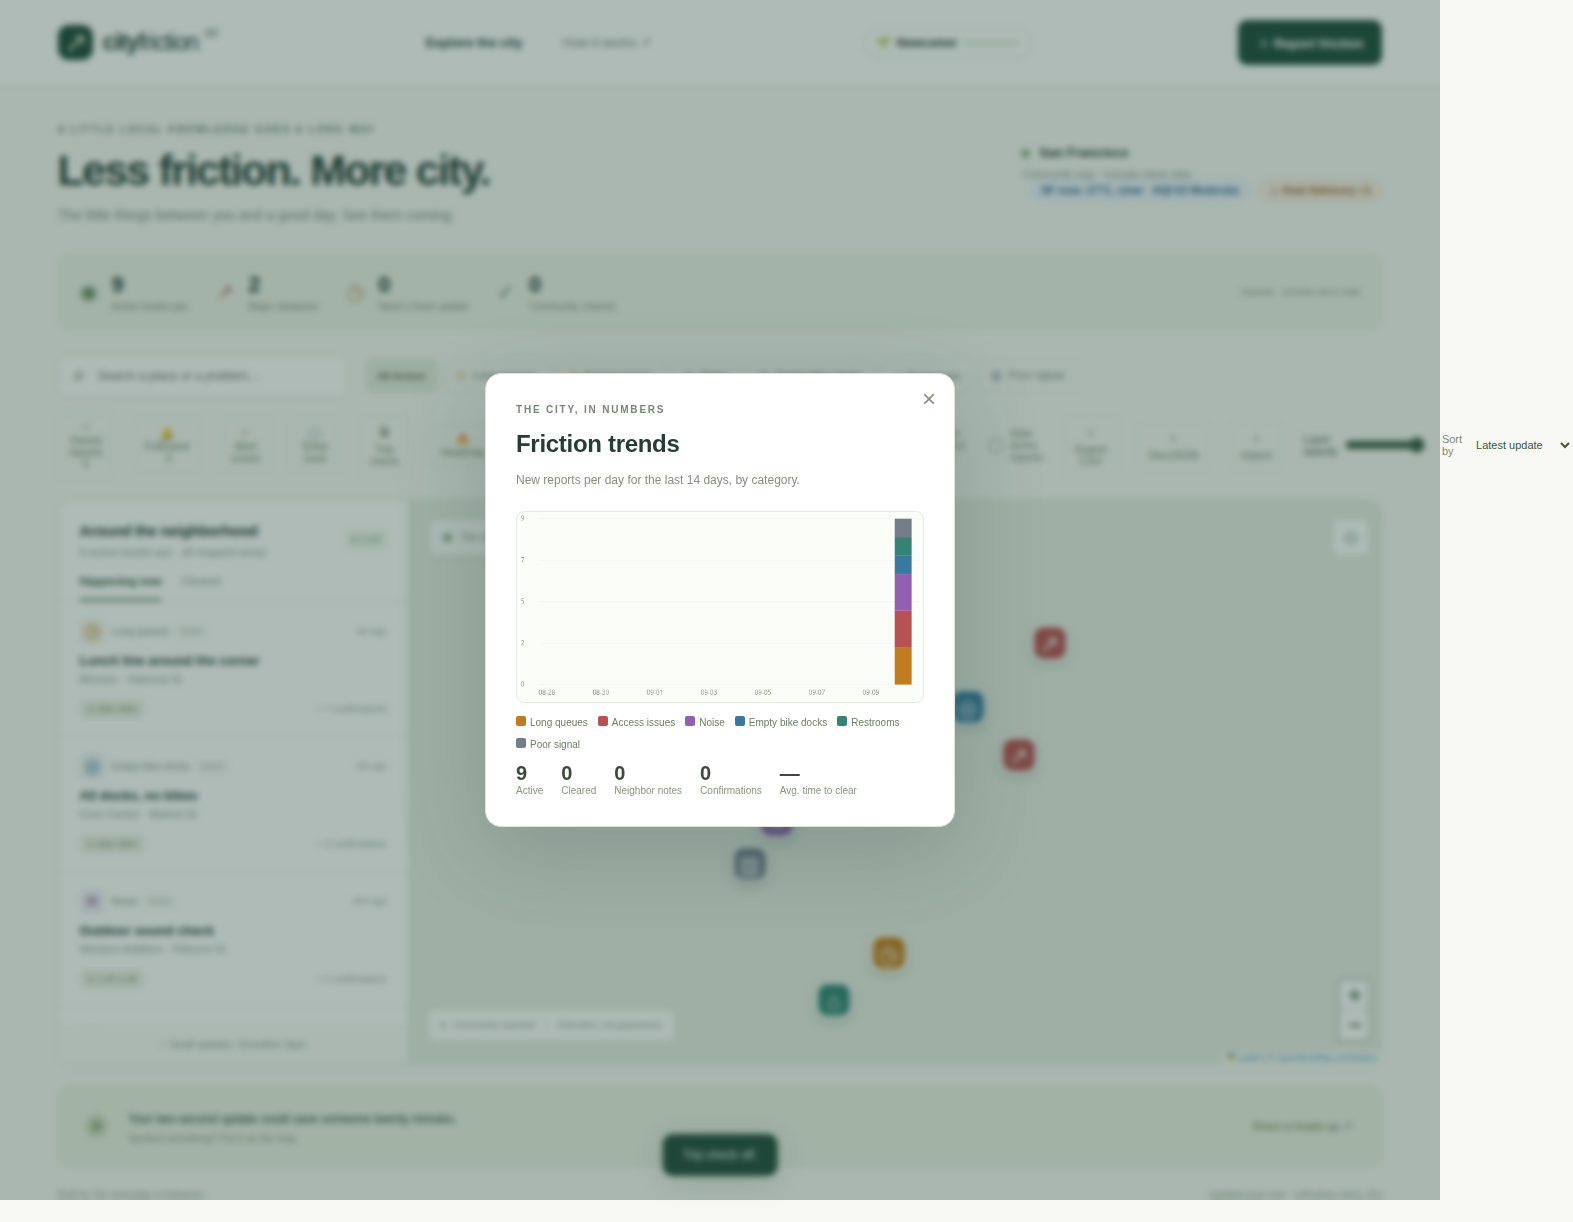
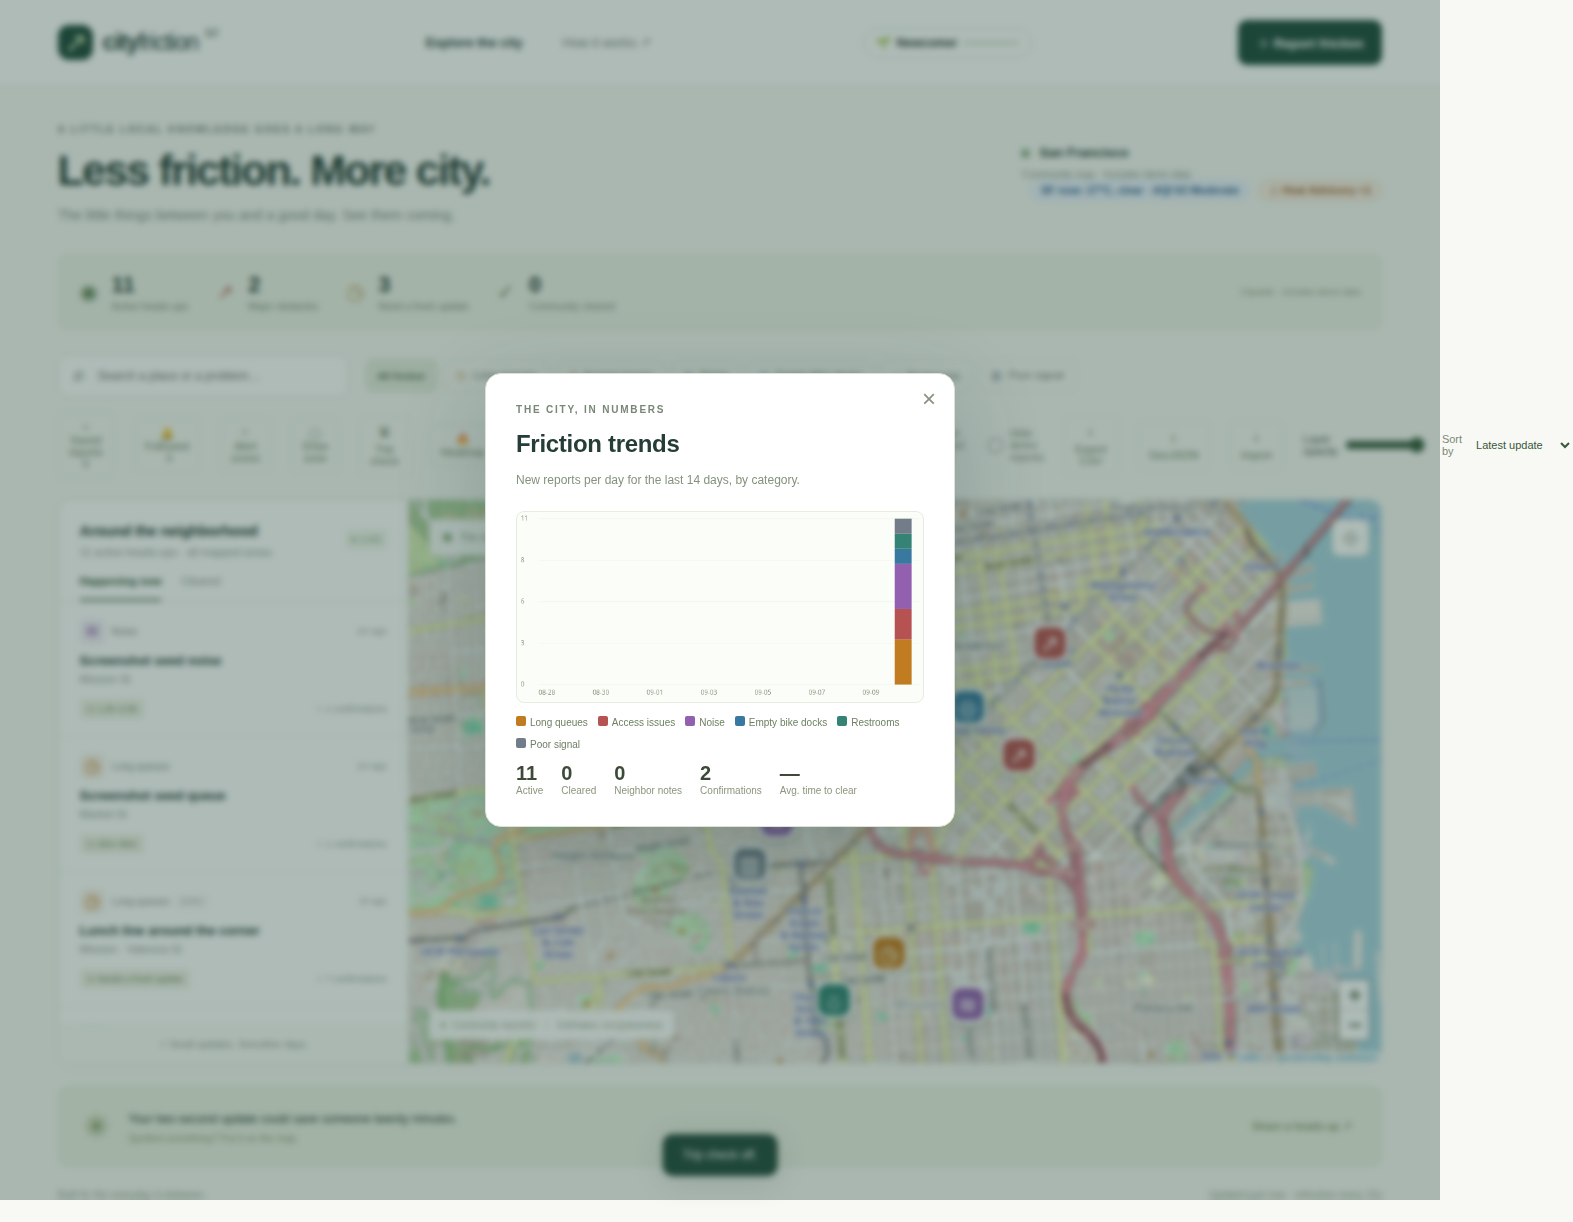
Regenerate README screenshots with rendered map tiles (v1.4.2)
- The previous eight screenshots showed an empty basemap: the capture
  sandbox's browser has no public-internet egress, so OSM tiles failed
  with ERR_EMPTY_RESPONSE (the tile API itself was healthy — verified
  with direct HTTP 200 fetches)
- Regenerated all eight shots against a production build pointed at a
  local tile cache (dist/ is gitignored; the shipped app always uses
  tile.openstreetmap.org directly) — desktop, live layers, trip check,
  gamification, trends, report detail, report form, mobile
- scripts/screenshots.js: dropped the flaky request-interception proxy
  approach; added a note documenting the local-tile-cache procedure
  for sandboxed capture environments
- 80/80 tests pass, production build clean

diff --git a/scripts/screenshots.js b/scripts/screenshots.js
@@ -5,9 +5,15 @@ const base = process.argv[2] || "http://127.0.0.1:3000";
 await mkdir("docs/screenshots", { recursive: true });
 // CI installs the Playwright browser bundle; local runs can point at a
 // system Chromium with SCREENSHOT_CHROME=/path/to/chrome.
-const launchOptions = process.env.SCREENSHOT_CHROME
-  ? { executablePath: process.env.SCREENSHOT_CHROME }
-  : {};
+// NOTE: if the capture browser has no public-internet egress, point the
+// built bundle at a local tile cache first (dist/ is gitignored, so the
+// shipped app always uses tile.openstreetmap.org directly).
+const launchOptions = {
+  args: ["--disable-dev-shm-usage"],
+  ...(process.env.SCREENSHOT_CHROME
+    ? { executablePath: process.env.SCREENSHOT_CHROME }
+    : {}),
+};
 const browser = await chromium.launch(launchOptions);
 
 async function settle(page, ms = 1200) {
